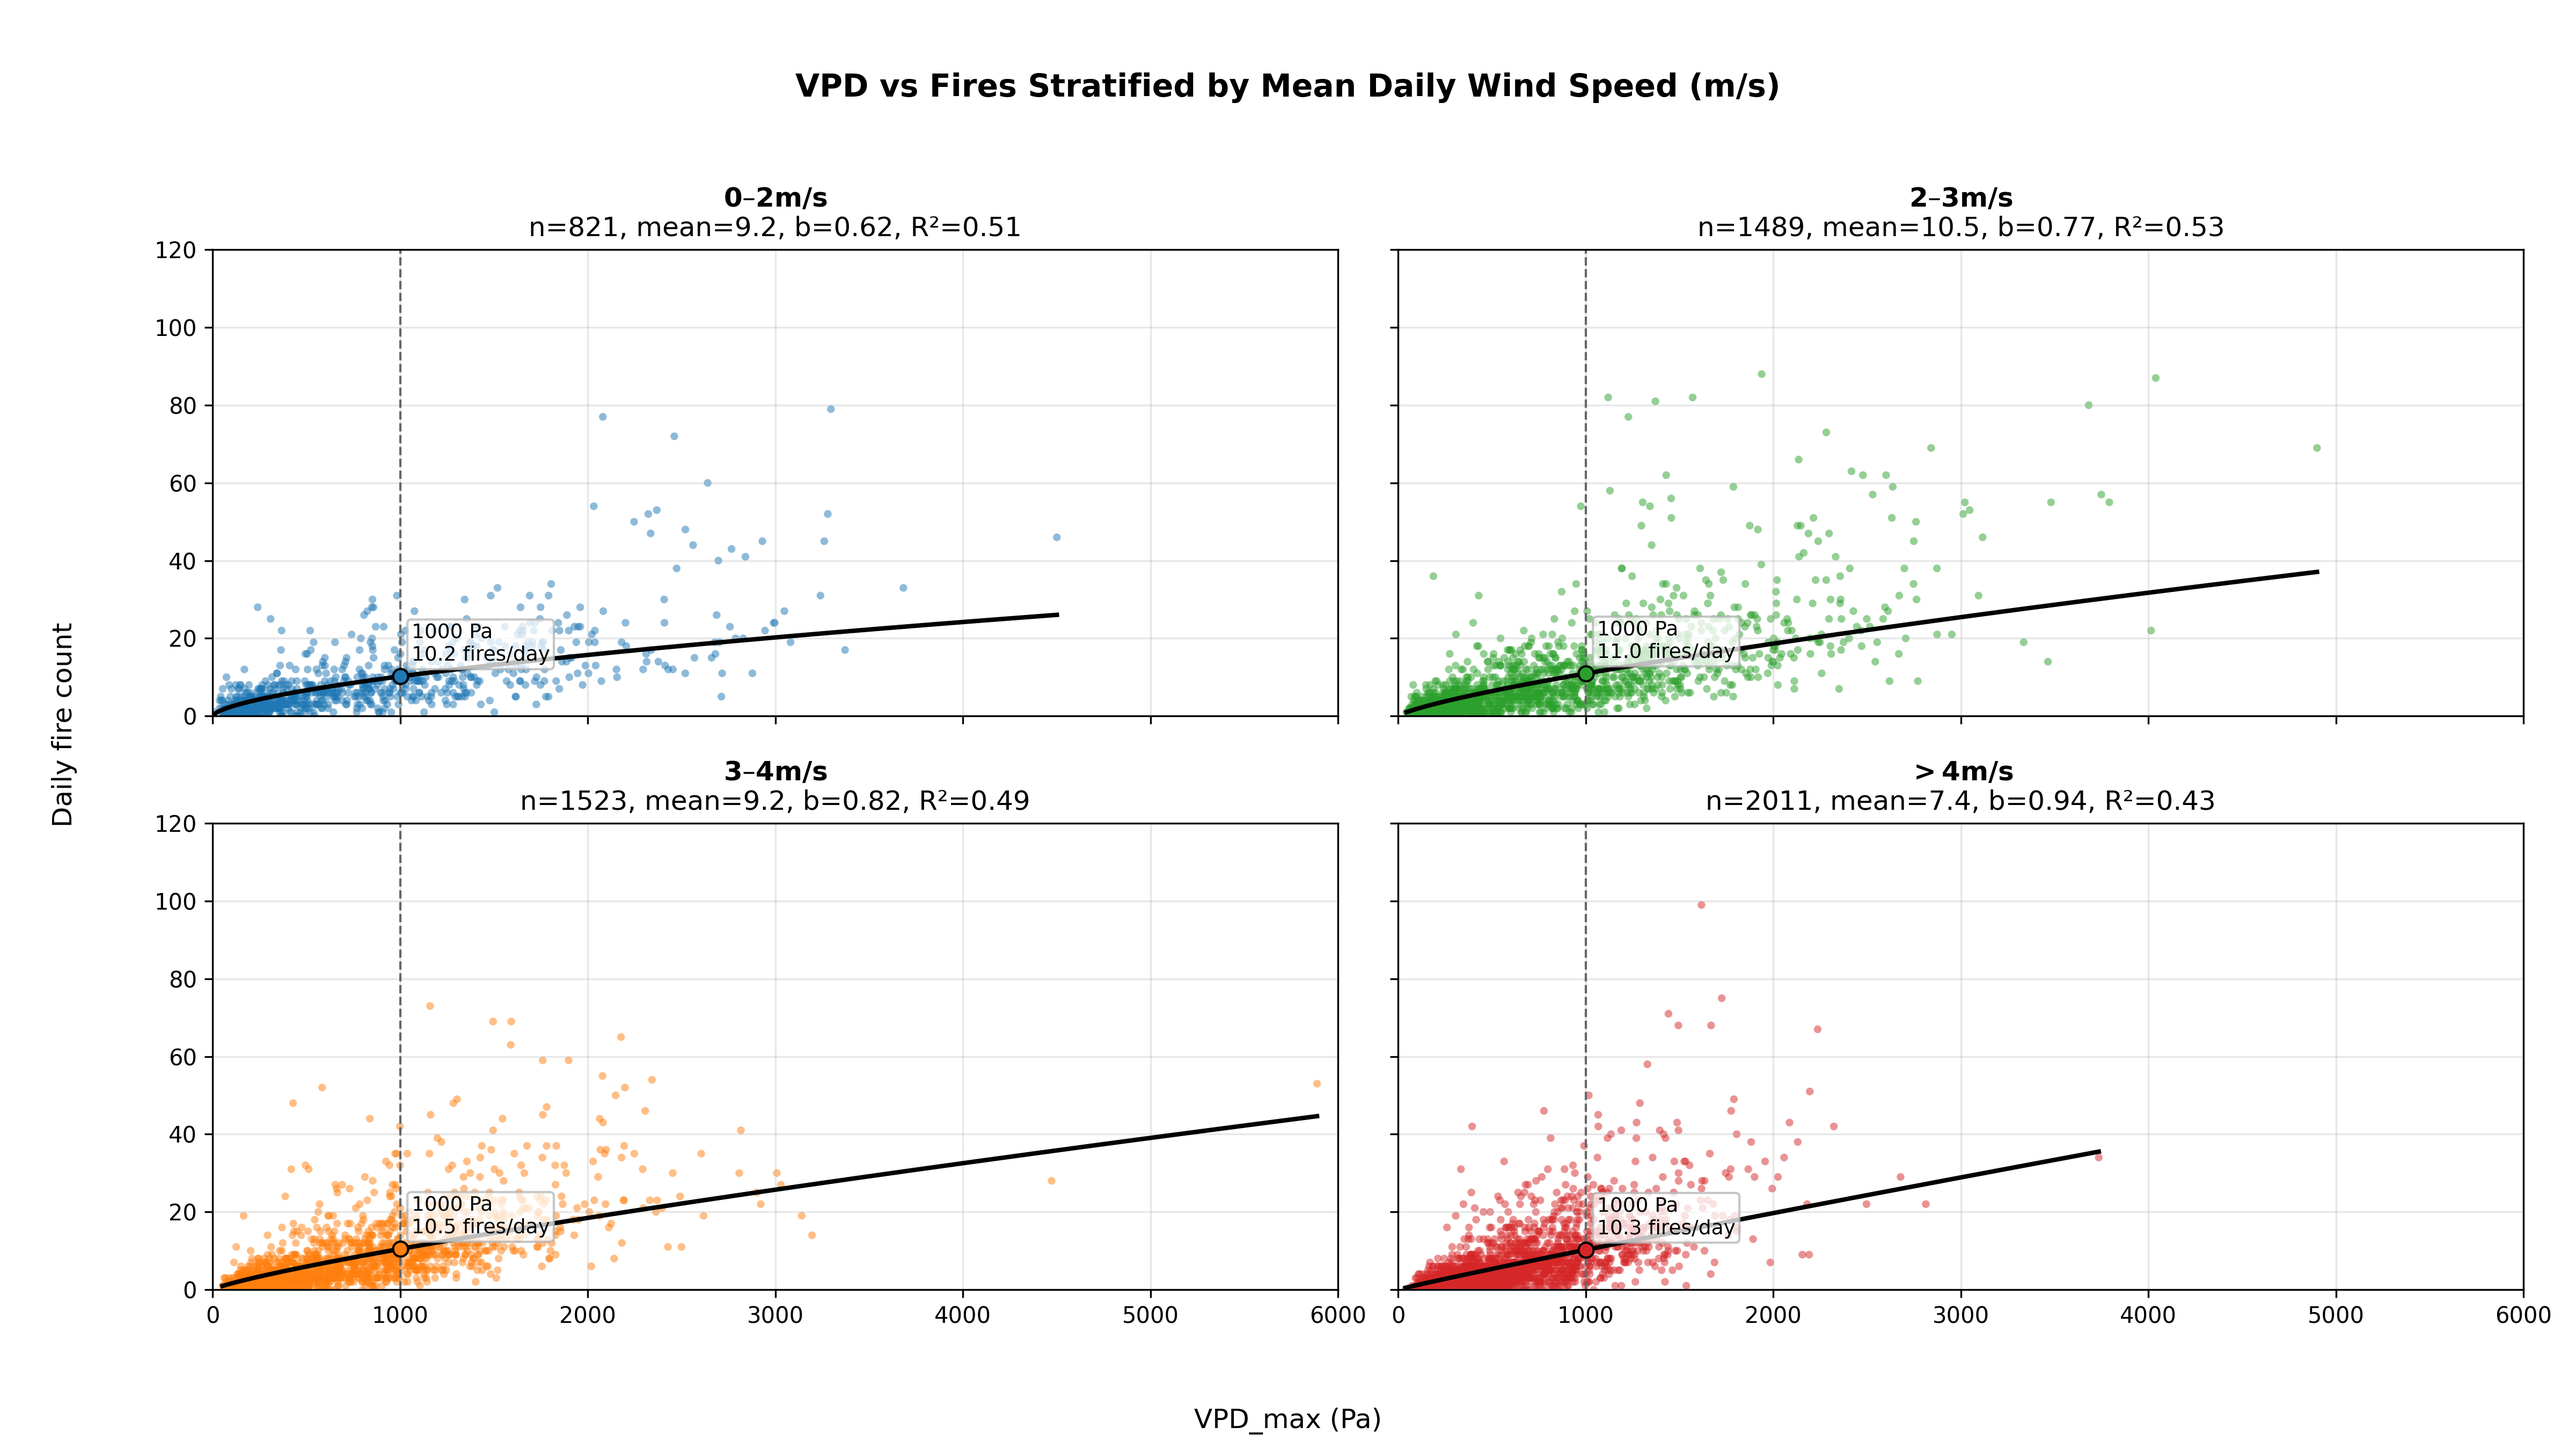
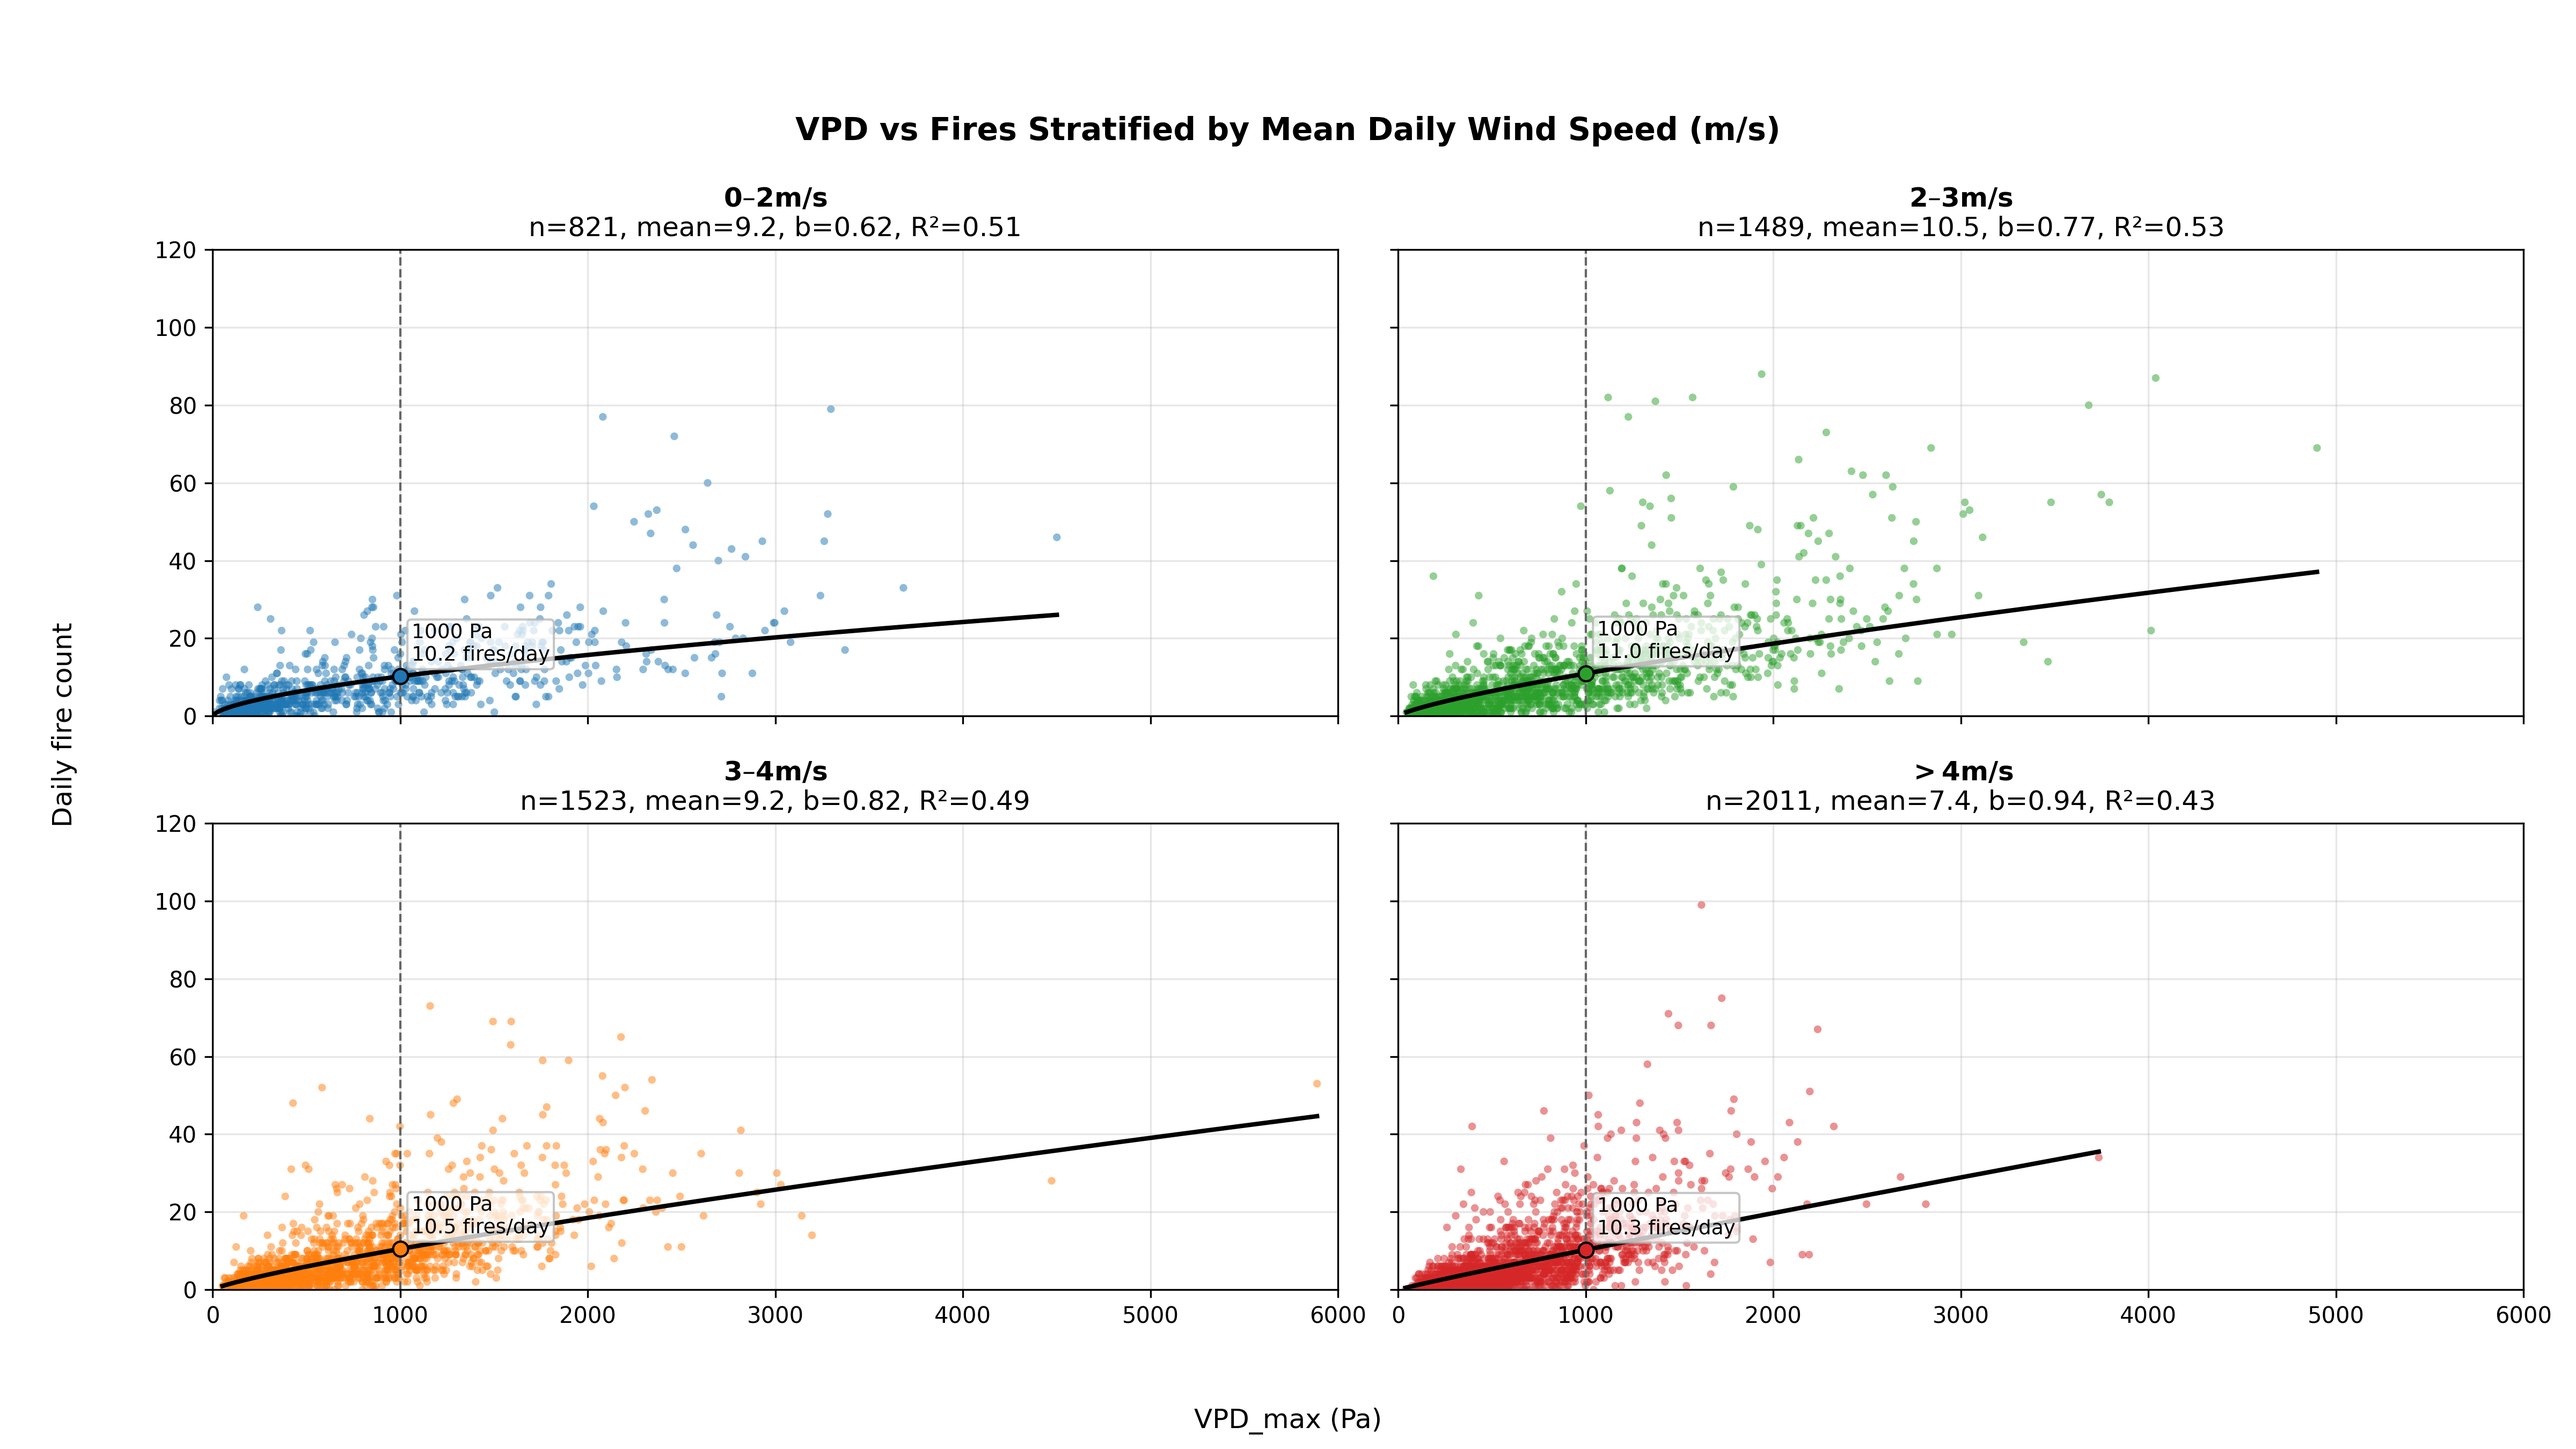
Add VPD max wind stratification for pump hours
Introduces analysis and plotting of daily pump hours versus VPD_max stratified by mean daily wind speed (in m/s) for the 2_pump_hrs_vs_vpd dataset. Updates similar wind-stratified plot logic in fires and pumps analyses, adjusts plot title position, and adds corresponding output figures.

Changed region(s): [[0.3125, 0.0311, 0.6875, 0.0933]]

diff --git a/data/graph_generation/2_pump_hrs_vs_vpd/6_vpd_max_wind_studies/analyse_wind_pumps_vs_vpd_max.py b/data/graph_generation/2_pump_hrs_vs_vpd/6_vpd_max_wind_studies/analyse_wind_pumps_vs_vpd_max.py
@@ -30,7 +30,7 @@ WIND_COLORS = {
     ">4 m/s": "#d62728",
 }
 
-VPD_COL = "VPD_mean"
+VPD_COL = "VPD_max"
 WIND_COL = "wind_speed_mean"  # from CSV, in knots
 REF_VPD = 1000.0  # Pa reference line
 # =======================
@@ -188,7 +188,7 @@ def plot_stratified_wind(df: pd.DataFrame,
 
     plt.tight_layout(rect=[0.03, 0.03, 1, 0.93])
 
-    out_dir = BASE_DIR / "5_vpd_wind_studies"
+    out_dir = BASE_DIR / "6_vpd_max_wind_studies"
     out_dir.mkdir(parents=True, exist_ok=True)
     out_path = out_dir / f"pumps_vs_{vpd_col}_by_wind_category.png"
     plt.savefig(out_path, dpi=300)

diff --git a/data/graph_generation/1_num_fires_vs_vpd/5_vpd_wind_studies/analyse_wind_fires_vs_vpd.py b/data/graph_generation/1_num_fires_vs_vpd/5_vpd_wind_studies/analyse_wind_fires_vs_vpd.py
@@ -183,7 +183,7 @@ def plot_stratified_wind(df: pd.DataFrame,
         "VPD vs Fires Stratified by Mean Daily Wind Speed (m/s)",
         fontsize=14,
         fontweight="bold",
-        y=0.95,
+        y=0.92,
     )
 
     plt.tight_layout(rect=[0.03, 0.03, 1, 0.93])

diff --git a/data/graph_generation/1_num_fires_vs_vpd/6_vpd_max_wind_studies/analyse_wind_fires_vs_vpd_max.py b/data/graph_generation/1_num_fires_vs_vpd/6_vpd_max_wind_studies/analyse_wind_fires_vs_vpd_max.py
@@ -183,7 +183,7 @@ def plot_stratified_wind(df: pd.DataFrame,
         "VPD vs Fires Stratified by Mean Daily Wind Speed (m/s)",
         fontsize=14,
         fontweight="bold",
-        y=0.95,
+        y=0.92,
     )
 
     plt.tight_layout(rect=[0.03, 0.03, 1, 0.93])
